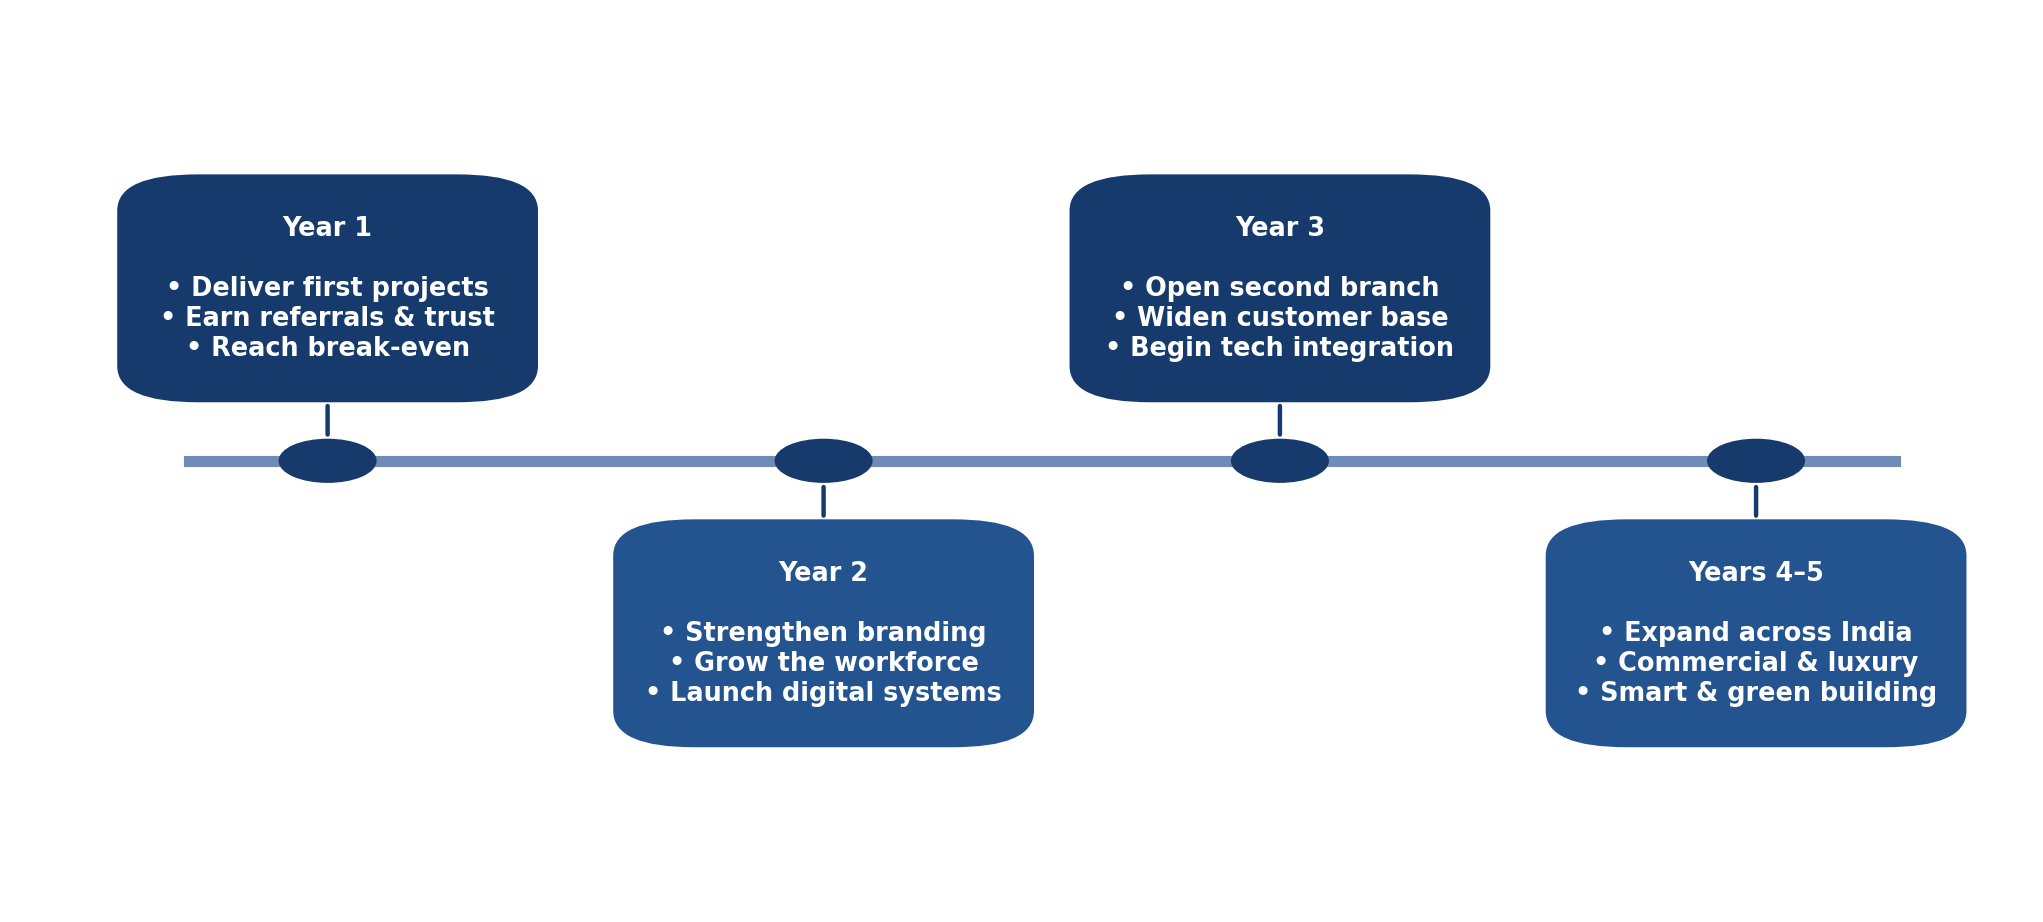
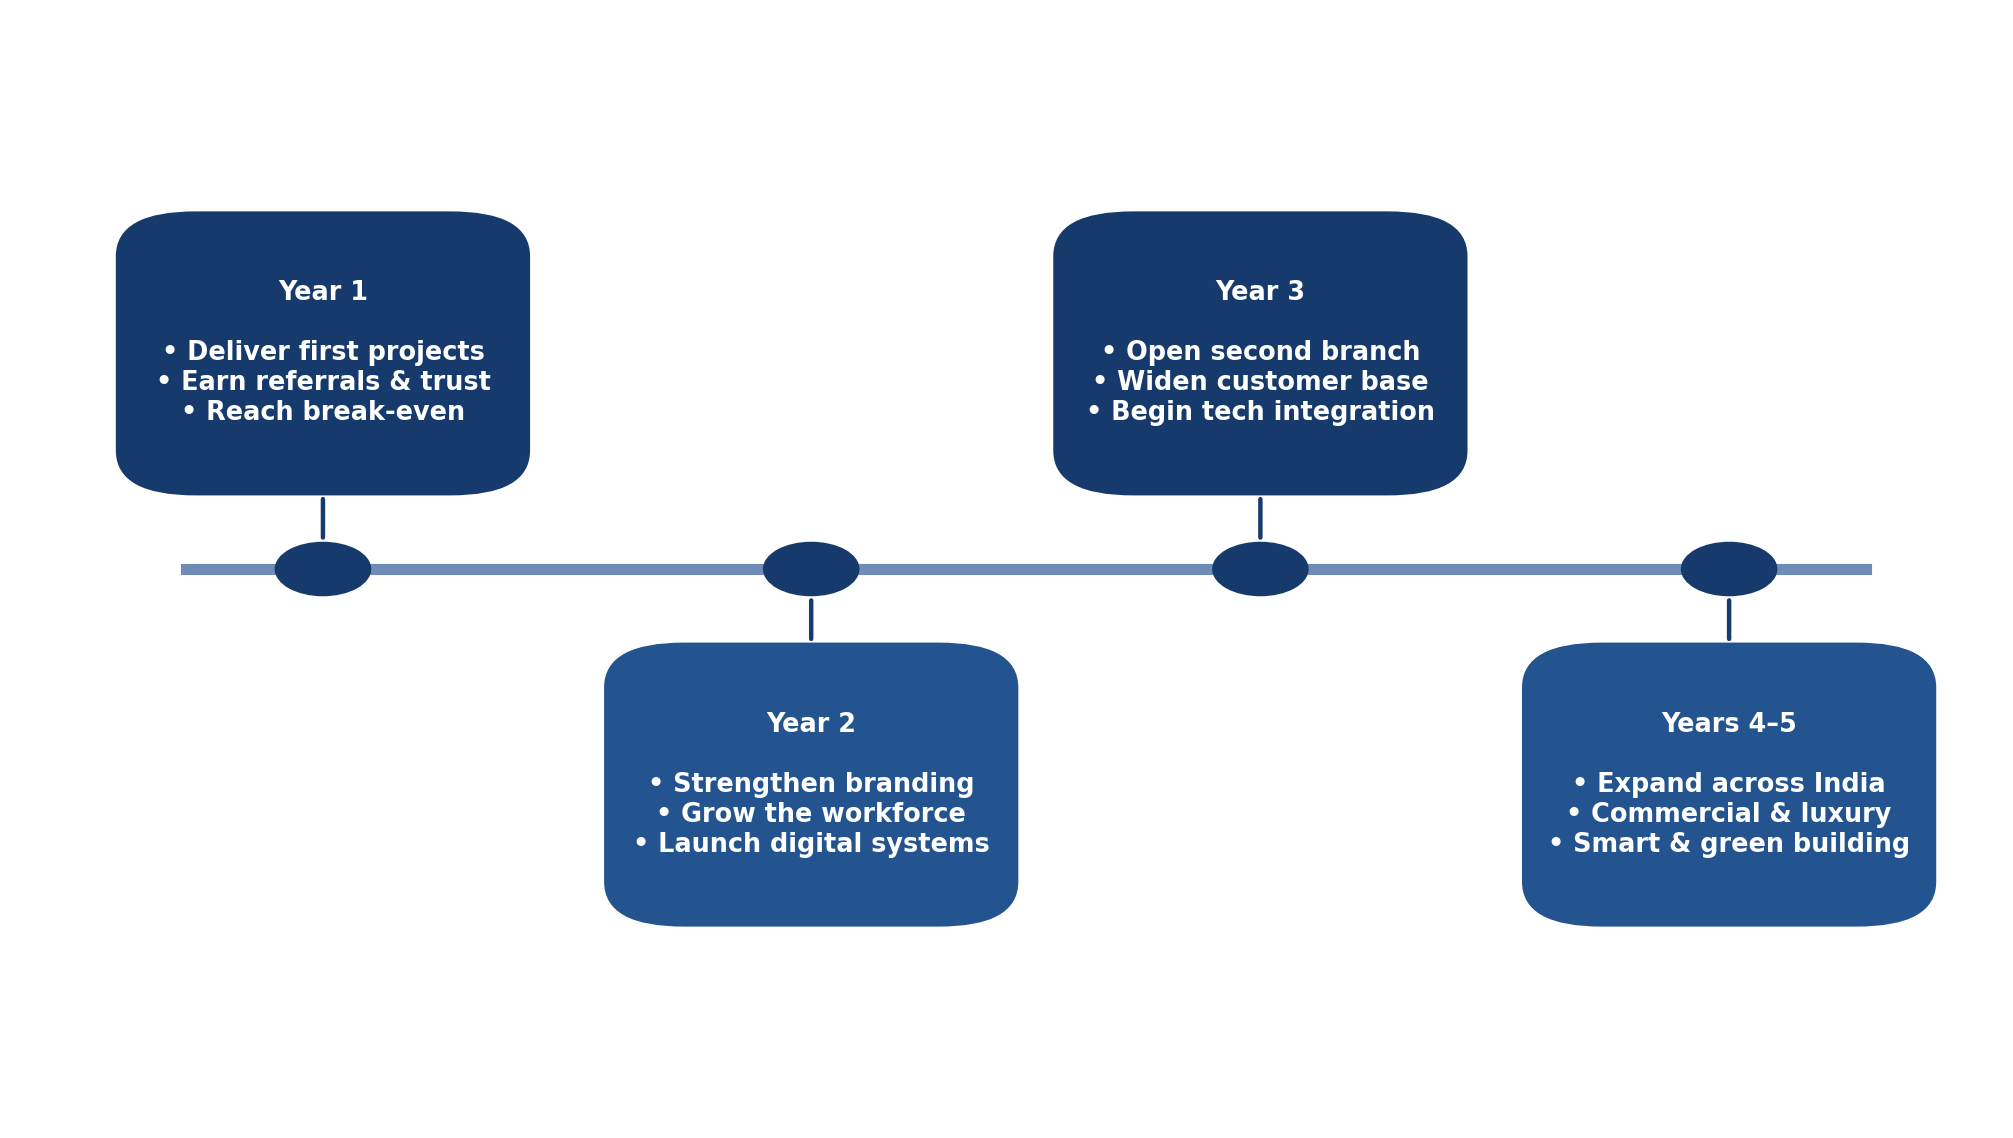
Publishing pass: add funnel, QA/safety, break-even, financial cards, ESG, key-takeaways visuals; vertically center chapter-end figures and declaration for balanced pages

diff --git a/BuildWise-Business-Plan/make_diagrams.py b/BuildWise-Business-Plan/make_diagrams.py
@@ -177,7 +177,7 @@ def problem_solution():
 
 # ============ 6. EXPANSION TIMELINE ============
 def expansion_timeline():
-    fig, ax = new_ax(12.8, 5.6)
+    fig, ax = new_ax(12.6, 7.0)
     miles = [
         ("Year 1", ["Deliver first projects", "Earn referrals & trust", "Reach break-even"]),
         ("Year 2", ["Strengthen branding", "Grow the workforce", "Launch digital systems"]),
@@ -318,6 +318,125 @@ def tech_roadmap():
     save(fig, "tech_roadmap.png")
 
 
+# ============ 11. MARKETING / CUSTOMER-ACQUISITION FUNNEL ============
+def marketing_funnel():
+    from matplotlib.patches import Polygon
+    fig, ax = new_ax(11.4, 7.4)
+    stages = [
+        ("AWARENESS", "Google Business Profile, Instagram & Facebook, site boards", NAVY),
+        ("INTEREST", "Referrals, word of mouth, customer testimonials", "#20497D"),
+        ("CONSIDERATION", "Consultation & transparent, itemised quotation", NAVY2),
+        ("DECISION", "Signed agreement with milestone-based billing", "#3A6098"),
+        ("ADVOCACY", "Referrals & repeat business", BLUE),
+    ]
+    top_w, bot_w = 94, 46
+    n = len(stages)
+    h = 13.5
+    gap = 2.0
+    y = 92
+    cx = 50
+    for i, (title, desc, color) in enumerate(stages):
+        wt = top_w - (top_w - bot_w) * (i / n)
+        wb = top_w - (top_w - bot_w) * ((i + 1) / n)
+        yt, yb = y, y - h
+        poly = Polygon([(cx - wt / 2, yt), (cx + wt / 2, yt),
+                        (cx + wb / 2, yb), (cx - wb / 2, yb)],
+                       closed=True, facecolor=color, edgecolor="white", lw=2, zorder=3)
+        ax.add_patch(poly)
+        ax.text(cx, (yt + yb) / 2 + 1.6, title, ha="center", va="center",
+                color="white", fontsize=12.5, fontweight="bold", zorder=4)
+        ax.text(cx, (yt + yb) / 2 - 3.4, desc, ha="center", va="center",
+                color="#EAF0F8", fontsize=8.6, zorder=4)
+        y = yb - gap
+    save(fig, "marketing_funnel.png")
+
+
+# ============ 12. QUALITY ASSURANCE & SAFETY ============
+def quality_safety():
+    fig, ax = new_ax(11.6, 6.2)
+    ax.text(50, 96, "Quality Assurance Checkpoints", ha="center", va="center",
+            color=NAVY, fontsize=13, fontweight="bold")
+    stages = ["Foundation\nInspection", "Structure\nInspection",
+              "Finishing\nInspection", "Final Handover\nInspection"]
+    xs = [16, 39.3, 62.6, 86]
+    w, hh = 20, 18
+    for i, (x, s) in enumerate(zip(xs, stages)):
+        box(ax, x, 78, w, hh, s, fc=NAVY if i % 2 == 0 else NAVY2, fs=10, wrap=0)
+        if i < 3:
+            arrow(ax, (x + w / 2, 78), (xs[i + 1] - w / 2, 78))
+    ax.text(50, 50, "Safety Standards on Every Site", ha="center", va="center",
+            color=NAVY, fontsize=13, fontweight="bold")
+    items = ["Personal Protective\nEquipment (PPE)", "Safe Scaffolding\n& Access",
+             "On-site\nSupervision", "Regulatory\nCompliance"]
+    for i, (x, s) in enumerate(zip(xs, items)):
+        box(ax, x, 28, w, 20, s, fc=BLUE if i % 2 == 0 else STEEL, fs=10, wrap=0)
+    save(fig, "quality_safety.png")
+
+
+# ============ 13. ESG / SUSTAINABILITY PILLARS ============
+def esg_sustainability():
+    fig, ax = new_ax(11.6, 7.0)
+    pillars = [
+        ("ENVIRONMENTAL", NAVY, ["Energy-efficient design",
+                                 "Responsible material sourcing",
+                                 "On-site waste reduction",
+                                 "Green-building certifications"]),
+        ("SOCIAL", NAVY2, ["Fair wages & safe conditions",
+                           "Skill development for workers",
+                           "Community infrastructure support",
+                           "Customer trust & transparency"]),
+        ("GOVERNANCE", BLUE, ["Transparent documentation",
+                              "Regulatory & RERA compliance",
+                              "Quality & safety standards",
+                              "Ethical business conduct"]),
+    ]
+    cw = 30
+    xs = [8, 38, 68]
+    ax.text(50, 95, "Sustainability & ESG Framework", ha="center", va="center",
+            color=NAVY, fontsize=14, fontweight="bold")
+    for (title, color, items), x in zip(pillars, xs):
+        ax.add_patch(FancyBboxPatch((x, 6), cw, 78,
+                     boxstyle="round,pad=0.02,rounding_size=2", facecolor="white",
+                     edgecolor=color, linewidth=2.2, zorder=2))
+        ax.add_patch(FancyBboxPatch((x, 74), cw, 10, boxstyle="square,pad=0",
+                     facecolor=color, edgecolor=color, zorder=3))
+        ax.text(x + cw / 2, 79, title, ha="center", va="center", color="white",
+                fontsize=11.5, fontweight="bold", zorder=4)
+        for k, it in enumerate(items):
+            ax.text(x + cw / 2, 64 - k * 15,
+                    "\n".join(textwrap.wrap(it, 20)), ha="center", va="center",
+                    color="#2B2B2B", fontsize=9.6, zorder=4)
+    save(fig, "esg_sustainability.png")
+
+
+# ============ 14. CONCLUSION KEY TAKEAWAYS + MOTTO CALLOUT ============
+def key_takeaways():
+    fig, ax = new_ax(11.6, 6.8)
+    ax.text(50, 93, "Key Takeaways", ha="center", va="center",
+            color=NAVY, fontsize=15, fontweight="bold")
+    cards = [
+        ("Trust-Led Differentiation", "Transparency, quality and communication\u2014not the lowest price"),
+        ("Disciplined Phased Growth", "Revenue and reputation first; technology only when affordable"),
+        ("Realistic Financials", "Conservative projections with break-even inside Year 1"),
+        ("Clear Expansion Path", "From Chennai to a technology-enabled national brand"),
+    ]
+    pos = [(6, 56), (52, 56), (6, 27), (52, 27)]
+    cw, ch = 42, 24
+    for (title, desc), (x, y) in zip(cards, pos):
+        ax.add_patch(FancyBboxPatch((x, y), cw, ch, boxstyle="round,pad=0.02,rounding_size=2",
+                     facecolor=NAVY, edgecolor=NAVY, zorder=2))
+        ax.text(x + cw / 2, y + ch - 6, title, ha="center", va="center", color="white",
+                fontsize=11, fontweight="bold", zorder=3)
+        ax.text(x + cw / 2, y + ch / 2 - 4, "\n".join(textwrap.wrap(desc, 34)),
+                ha="center", va="center", color="#D9E2F0", fontsize=8.8, zorder=3)
+    # closing motto banner
+    ax.add_patch(FancyBboxPatch((6, 4), 88, 13, boxstyle="round,pad=0.02,rounding_size=2",
+                 facecolor="#0F2A50", edgecolor="#0F2A50", zorder=2))
+    ax.text(50, 10.5, '"Building Trust, Brick by Brick."', ha="center", va="center",
+            color="white", fontsize=16, fontweight="bold", style="italic", zorder=3)
+    save(fig, "key_takeaways.png")
+
+
 if __name__ == "__main__":
     workflow()
     org_chart()
@@ -329,4 +448,8 @@ if __name__ == "__main__":
     market_overview()
     swot_matrix()
     tech_roadmap()
+    marketing_funnel()
+    quality_safety()
+    esg_sustainability()
+    key_takeaways()
     print("all diagrams done")

diff --git a/BuildWise-Business-Plan/make_charts.py b/BuildWise-Business-Plan/make_charts.py
@@ -92,4 +92,70 @@ fig.tight_layout()
 fig.savefig(f"{OUT_DIR}/revenue_growth.png", bbox_inches="tight", facecolor="white")
 plt.close(fig)
 
+# ---------- Break-even visualization ----------
+import numpy as np
+from matplotlib.patches import FancyBboxPatch
+
+rev = np.linspace(0, 3, 200)
+fixed = 0.30                      # Rs Crore fixed operating cost (Year 1)
+total_cost = fixed + 0.80 * rev   # 80% variable (20% contribution margin)
+be = 1.5                          # break-even revenue (Rs Crore)
+
+fig, ax = plt.subplots(figsize=(7.8, 4.3))
+ax.fill_between(rev, rev, total_cost, where=(rev >= be), color=NAVY, alpha=0.13,
+                label="Profit zone", zorder=1)
+ax.fill_between(rev, rev, total_cost, where=(rev <= be), color=GREY, alpha=0.20,
+                label="Loss zone", zorder=1)
+ax.plot(rev, rev, color=NAVY, lw=2.6, label="Total Revenue", zorder=3)
+ax.plot(rev, total_cost, color=NAVY_LIGHT, lw=2.6, label="Total Cost", zorder=3)
+ax.axhline(fixed, color=GREY, lw=1.3, ls=":", zorder=2)
+ax.text(0.03, fixed + 0.05, "Fixed cost \u20b90.30 Cr", fontsize=8.5, color=GREY)
+ax.axvline(be, color="#B0433B", ls="--", lw=1.2, zorder=2)
+ax.plot([be], [be], "o", color="#B0433B", ms=9, zorder=5)
+ax.annotate("Break-even\n\u20b91.50 Crore", (be, be), xytext=(be + 0.18, be - 0.72),
+            fontsize=9.5, color="#B0433B", fontweight="bold",
+            arrowprops=dict(arrowstyle="-|>", color="#B0433B"))
+ax.set_xlim(0, 3)
+ax.set_ylim(0, 3)
+ax.set_xlabel("Revenue (\u20b9 Crore)", fontsize=10, color="#333333")
+ax.set_ylabel("Revenue / Cost (\u20b9 Crore)", fontsize=10, color="#333333")
+ax.grid(color=GRID, linewidth=0.7, zorder=0)
+ax.set_axisbelow(True)
+for spine in ["top", "right"]:
+    ax.spines[spine].set_visible(False)
+ax.legend(frameon=False, fontsize=9, loc="upper left", ncol=2)
+ax.set_title("Break-Even Analysis (Year 1)", fontsize=12, fontweight="bold",
+             color=NAVY, pad=10)
+fig.tight_layout()
+fig.savefig(f"{OUT_DIR}/breakeven_chart.png", bbox_inches="tight", facecolor="white")
+plt.close(fig)
+
+
+# ---------- Financial summary KPI cards ----------
+cards = [
+    ("STARTUP CAPITAL", "\u20b91.00 Cr", "Self / informal funding"),
+    ("BREAK-EVEN", "\u20b91.50 Cr", "Reached within Year 1"),
+    ("YEAR 3 REVENUE", "\u20b98.76 Cr", "From \u20b92.02 Cr in Year 1"),
+    ("YEAR 3 NET PROFIT", "\u20b965.8 L", "~7.5% net margin"),
+]
+fig, ax = plt.subplots(figsize=(10.2, 2.5))
+ax.set_xlim(0, 100)
+ax.set_ylim(0, 26)
+ax.axis("off")
+cw, gap = 22.5, 3.0
+x0 = (100 - (cw * 4 + gap * 3)) / 2
+colors = [NAVY, "#24548F", NAVY, "#24548F"]
+for i, (title, value, sub) in enumerate(cards):
+    x = x0 + i * (cw + gap)
+    ax.add_patch(FancyBboxPatch((x, 1), cw, 24, boxstyle="round,pad=0.02,rounding_size=1.6",
+                 facecolor=colors[i], edgecolor=colors[i], zorder=2))
+    ax.text(x + cw / 2, 19.5, title, ha="center", va="center", color="#D6E0EE",
+            fontsize=9.5, fontweight="bold", zorder=3)
+    ax.text(x + cw / 2, 12.5, value, ha="center", va="center", color="white",
+            fontsize=17, fontweight="bold", zorder=3)
+    ax.text(x + cw / 2, 5.5, sub, ha="center", va="center", color="#C9D6E8",
+            fontsize=8, zorder=3)
+fig.savefig(f"{OUT_DIR}/financial_summary.png", bbox_inches="tight", facecolor="white", dpi=200)
+plt.close(fig)
+
 print("charts written")

diff --git a/BuildWise-Business-Plan/md_to_pdf.py b/BuildWise-Business-Plan/md_to_pdf.py
@@ -237,7 +237,7 @@ def render_code(codelines):
     pdf.set_text_color(*BLACK)
 
 
-def render_image(path, caption=None):
+def render_image(path, caption=None, chapter_end=False):
     from PIL import Image
     iw, ih = Image.open(path).size
     max_w, max_h = EPW, 185.0
@@ -257,6 +257,11 @@ def render_image(path, caption=None):
     block = 3 + disp_h + 2 + cap_h
     if pdf.get_y() + block > pdf.page_break_trigger:
         pdf.add_page()
+        # A chapter-ending figure that lands on its own page is centred
+        # vertically so the page looks balanced rather than top-heavy.
+        if chapter_end:
+            avail = pdf.page_break_trigger - pdf.get_y()
+            pdf.ln(max(0, (avail - block) / 2 - 5))
     x = pdf.l_margin + (EPW - disp_w) / 2
     pdf.ln(3)
     pdf.image(path, x=x, w=disp_w)
@@ -387,8 +392,13 @@ def build(toc_pages):
             if j < len(lines) and re.match(r"^\*Figure.*\*$", lines[j].strip()):
                 caption = lines[j].strip().strip("*")
                 i = j
+            # Is this figure the last element of its chapter?
+            k = i + 1
+            while k < len(lines) and (lines[k].strip() == "" or lines[k].strip() == "---"):
+                k += 1
+            chapter_end = (k >= len(lines)) or lines[k].strip().startswith("# ")
             if os.path.exists(img_path):
-                render_image(img_path, caption)
+                render_image(img_path, caption, chapter_end=chapter_end)
             i += 1
             continue
 
@@ -461,10 +471,10 @@ def build(toc_pages):
                 pdf.set_text_color(*BLACK)
             elif level == 2 and text.upper() in FRONT_MATTER:
                 if text.upper() == "ACKNOWLEDGEMENT":
-                    pdf.ln(26)
+                    pdf.ln(34)
                 else:
                     pdf.add_page()
-                    pdf.ln(32)
+                    pdf.ln(52)
                 pdf.set_font("Head", "B", 16)
                 pdf.set_text_color(*NAVY)
                 pdf.set_x(pdf.l_margin)

diff --git a/BuildWise-Business-Plan/Business_Plan_Report.md b/BuildWise-Business-Plan/Business_Plan_Report.md
@@ -384,6 +384,10 @@ BuildWise's marketing is built on demonstrated trust rather than advertising spe
 
 Marketing spend is intentionally modest in Year 1 and scales with revenue. Early rupees are directed at high-return, trust-building channels (site boards, social proof, referrals) before broader digital campaigns are introduced.
 
+![Marketing and Customer Acquisition Funnel](marketing_funnel.png)
+
+*Figure: BuildWise's customer-acquisition funnel, from initial awareness to long-term advocacy.*
+
 ---
 
 # CHAPTER 9: OPERATIONS PLAN
@@ -407,6 +411,10 @@ Quality is managed through defined checkpoints at each major milestone — found
 ## 9.4 Safety Standards
 
 The company enforces basic occupational safety practices at every site, including personal protective equipment, safe scaffolding, and site supervision. Safety compliance protects workers, reduces liability, and reinforces the company's professional image.
+
+![Quality Assurance and Safety](quality_safety.png)
+
+*Figure: BuildWise's stage-wise quality-assurance checkpoints and the safety standards enforced on every site.*
 
 ---
 
@@ -469,6 +477,10 @@ All figures in this chapter are realistic estimates based on typical Indian cons
 ## 12.1 Startup Capital
 
 BuildWise is founded with a startup capital of **₹1.00 Crore**, contributed by the promoter along with support from family and informal investors. The company is intentionally **not** funded by venture capital, consistent with its philosophy of steady, self-sustaining growth.
+
+![Financial Highlights](financial_summary.png)
+
+*Figure: Financial highlights at a glance.*
 
 ## 12.2 Startup Cost Breakdown
 
@@ -552,6 +564,10 @@ Since projected Year 1 revenue is approximately ₹2.02 Crore, the company is ex
 ## 12.9 Budget Summary
 
 The startup capital is sufficient to fund setup, initial operations, and a working-capital float while retaining an emergency reserve. Profits generated from Year 1 onward are reinvested into digital systems (Phase 2) and, subsequently, construction technology (Phase 3), in line with the company's phased growth philosophy.
+
+![Break-Even Analysis](breakeven_chart.png)
+
+*Figure: Break-even analysis — total revenue overtakes total cost at approximately ₹1.50 Crore.*
 
 ---
 
@@ -637,6 +653,10 @@ As the company matures, BuildWise plans to adopt sustainable construction practi
 
 BuildWise intends to contribute to the communities in which it operates through fair wages, safe working conditions for labour, skill-development opportunities for site workers, and participation in local infrastructure improvement initiatives. CSR activities will scale in proportion to the company's growth and profitability.
 
+![Sustainability and ESG Framework](esg_sustainability.png)
+
+*Figure: BuildWise's sustainability and ESG framework across environmental, social, and governance pillars.*
+
 ---
 
 # CHAPTER 17: CONCLUSION
@@ -646,6 +666,10 @@ BuildWise Constructions Pvt. Ltd. is designed as a realistic, disciplined, and c
 The plan addresses genuine, well-documented problems in the Indian construction market and proposes a differentiated position built on transparency, reliability, and long-term relationships rather than the lowest price. The financial projections are conservative and achievable, and the phased growth model minimises risk at every stage.
 
 BuildWise's ultimate ambition is to become one of India's most trusted technology-enabled construction companies. This report demonstrates that such an ambition can be pursued responsibly. True to its founding motto — *"Building Trust, Brick by Brick"* — the company intends to grow one excellent project, one satisfied customer, and one reinvested rupee at a time.
+
+![Key Takeaways](key_takeaways.png)
+
+*Figure: Key takeaways from the BuildWise business plan.*
 
 ---
 